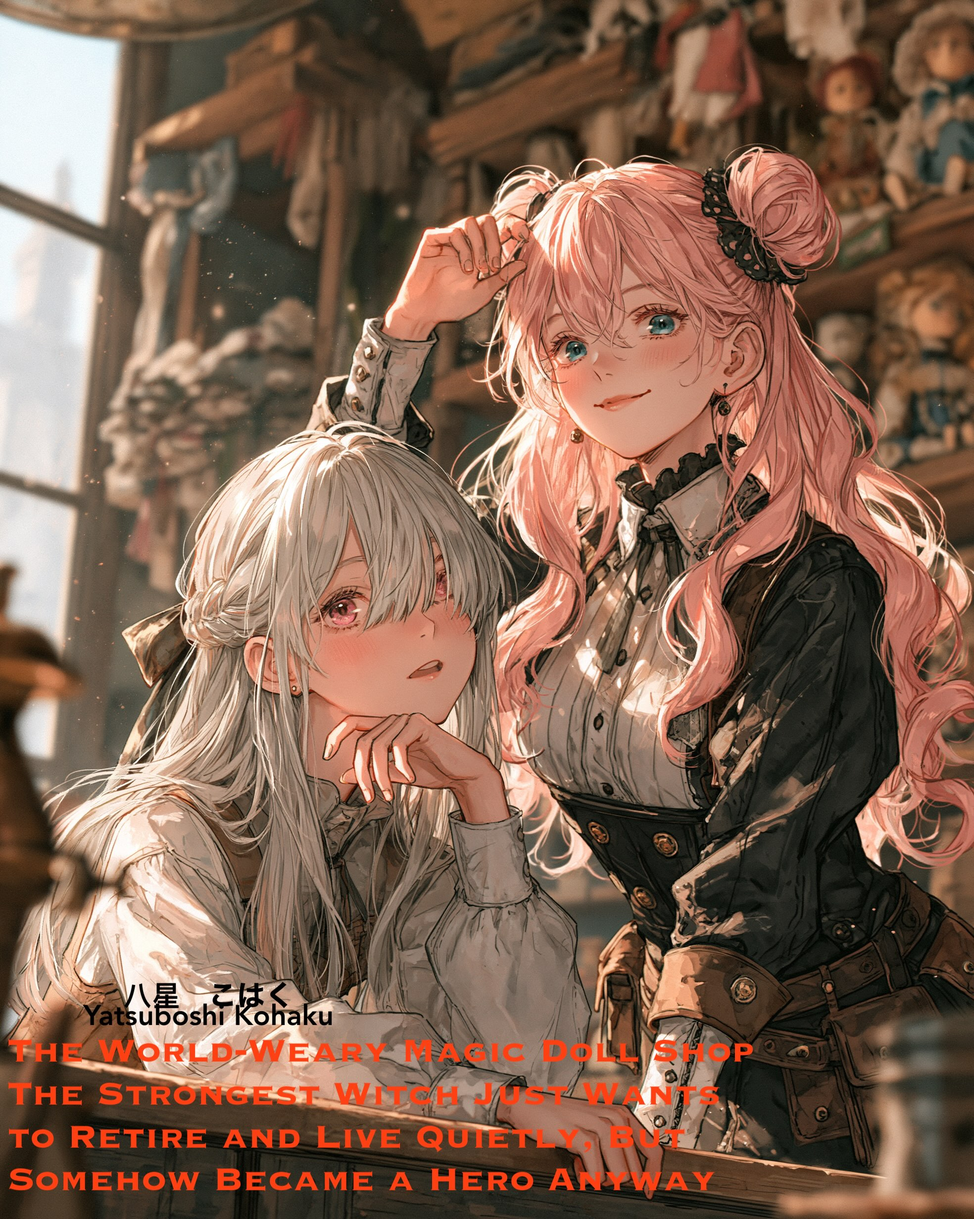
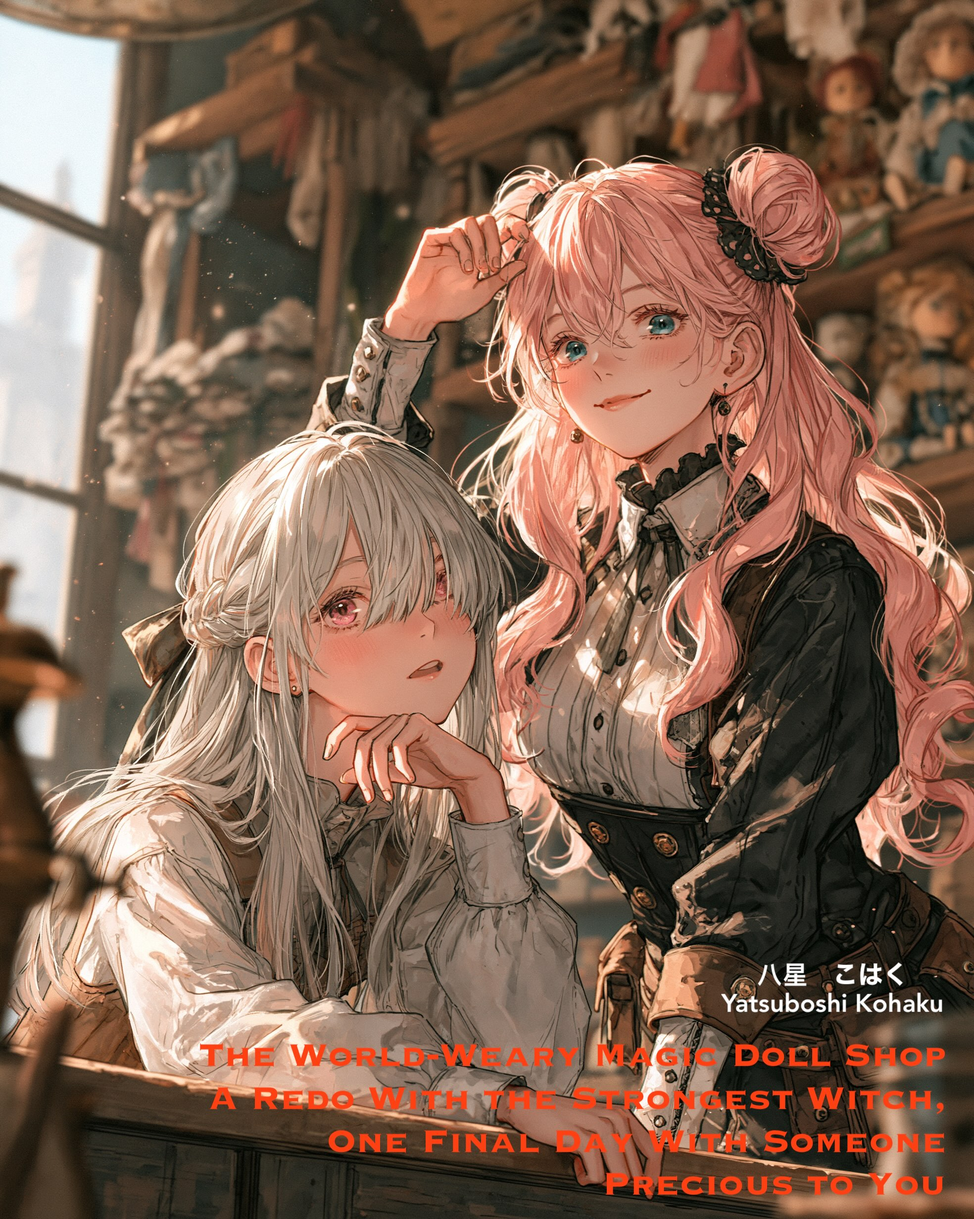
updating subtitle

Changed region(s): [[0.0, 0.7812, 0.9609, 1.0]]

diff --git a/index.md b/index.md
@@ -33,7 +33,7 @@ nav_exclude: true
 - [The Story of a Princess-Type Girl Trying to Win Over a Prince-Type Girl](/docs/Princess Girl Trying to Win Over Prince Girl/princess-wins-prince.html)
 - [The Story of the Woman Who Ended Up Sleeping with the Club Princess ✅](/docs/Woman Sleeping with Princess/woman-sleeping-with-princess.html)
 - [The White Witch and the Black Witch — A Twisted Secret Between Them ✅](/docs/White Witch, Black Witch/white-witch-black-witch.html)
-- [The World-Weary Magic Doll Shop — The Strongest Witch Just Wants to Retire and Live Quietly, But Somehow Became a Hero Anyway](/docs/Magic Doll Shop/magic-doll-shop.html)
+- [The World-Weary Magic Doll Shop — A Redo With the Strongest Witch, One Final Day With Someone Precious to You](/docs/Magic Doll Shop/magic-doll-shop.html)
 - [You Bleed Into My Colourless World ✅](/docs/My Colourless World/my-colourless-world.html)
 
 {: .note }

diff --git a/docs/Magic Doll Shop/magic-doll-shop.md b/docs/Magic Doll Shop/magic-doll-shop.md
@@ -5,7 +5,7 @@ tags: ["safe", "magic", "fantasy", "angst", "adult life", "ongoing"]
 ---
 ## Original Title
 
-厭世の魔法人形屋～隠居希望の最強魔女、ゆっくり暮らしたいだけなのに、いつの間にか英雄になってました～
+厭世の魔法人形屋～最強魔女とやり直す、大切な人との最期の1日～
 
 ## Synopsis
 

diff --git a/docs/Magic Doll Shop/Chapter 1/Episode 2.md b/docs/Magic Doll Shop/Chapter 1/Episode 2.md
@@ -1,5 +1,5 @@
 ---
-grand_parent: The World-Weary Magic Doll Shop — The Strongest Witch Just Wants to Retire and Live Quietly, But Somehow Became a Hero Anyway
+grand_parent: The World-Weary Magic Doll Shop — A Redo With the Strongest Witch, One Final Day With Someone Precious to You
 layout: episode
 nav_order: 2
 parent: 'Chapter One: The Magic Doll Shop "Lux"'

diff --git a/docs/Magic Doll Shop/Chapter 1/Episode 3.md b/docs/Magic Doll Shop/Chapter 1/Episode 3.md
@@ -1,5 +1,5 @@
 ---
-grand_parent: The World-Weary Magic Doll Shop — The Strongest Witch Just Wants to Retire and Live Quietly, But Somehow Became a Hero Anyway
+grand_parent: The World-Weary Magic Doll Shop — A Redo With the Strongest Witch, One Final Day With Someone Precious to You
 layout: episode
 nav_order: 3
 parent: 'Chapter One: The Magic Doll Shop "Lux"'

diff --git a/docs/Magic Doll Shop/Chapter 1/Episode 4.md b/docs/Magic Doll Shop/Chapter 1/Episode 4.md
@@ -1,5 +1,5 @@
 ---
-grand_parent: The World-Weary Magic Doll Shop — The Strongest Witch Just Wants to Retire and Live Quietly, But Somehow Became a Hero Anyway
+grand_parent: The World-Weary Magic Doll Shop — A Redo With the Strongest Witch, One Final Day With Someone Precious to You
 layout: episode
 nav_order: 4
 parent: 'Chapter One: The Magic Doll Shop "Lux"'

diff --git a/docs/Magic Doll Shop/Chapter 1/Episode 5.md b/docs/Magic Doll Shop/Chapter 1/Episode 5.md
@@ -1,5 +1,5 @@
 ---
-grand_parent: The World-Weary Magic Doll Shop — The Strongest Witch Just Wants to Retire and Live Quietly, But Somehow Became a Hero Anyway
+grand_parent: The World-Weary Magic Doll Shop — A Redo With the Strongest Witch, One Final Day With Someone Precious to You
 layout: episode
 nav_order: 5
 parent: 'Chapter One: The Magic Doll Shop "Lux"'

diff --git a/docs/Magic Doll Shop/Chapter 1/Episode 6.md b/docs/Magic Doll Shop/Chapter 1/Episode 6.md
@@ -1,5 +1,5 @@
 ---
-grand_parent: The World-Weary Magic Doll Shop — The Strongest Witch Just Wants to Retire and Live Quietly, But Somehow Became a Hero Anyway
+grand_parent: The World-Weary Magic Doll Shop — A Redo With the Strongest Witch, One Final Day With Someone Precious to You
 layout: episode
 nav_order: 6
 parent: 'Chapter One: The Magic Doll Shop "Lux"'

diff --git a/docs/Magic Doll Shop/Prologue/Episode 1.md b/docs/Magic Doll Shop/Prologue/Episode 1.md
@@ -1,5 +1,5 @@
 ---
-grand_parent: The World-Weary Magic Doll Shop — The Strongest Witch Just Wants to Retire and Live Quietly, But Somehow Became a Hero Anyway
+grand_parent: The World-Weary Magic Doll Shop — A Redo With the Strongest Witch, One Final Day With Someone Precious to You
 layout: episode
 nav_order: 1
 parent: 'Prologue: Lux'
